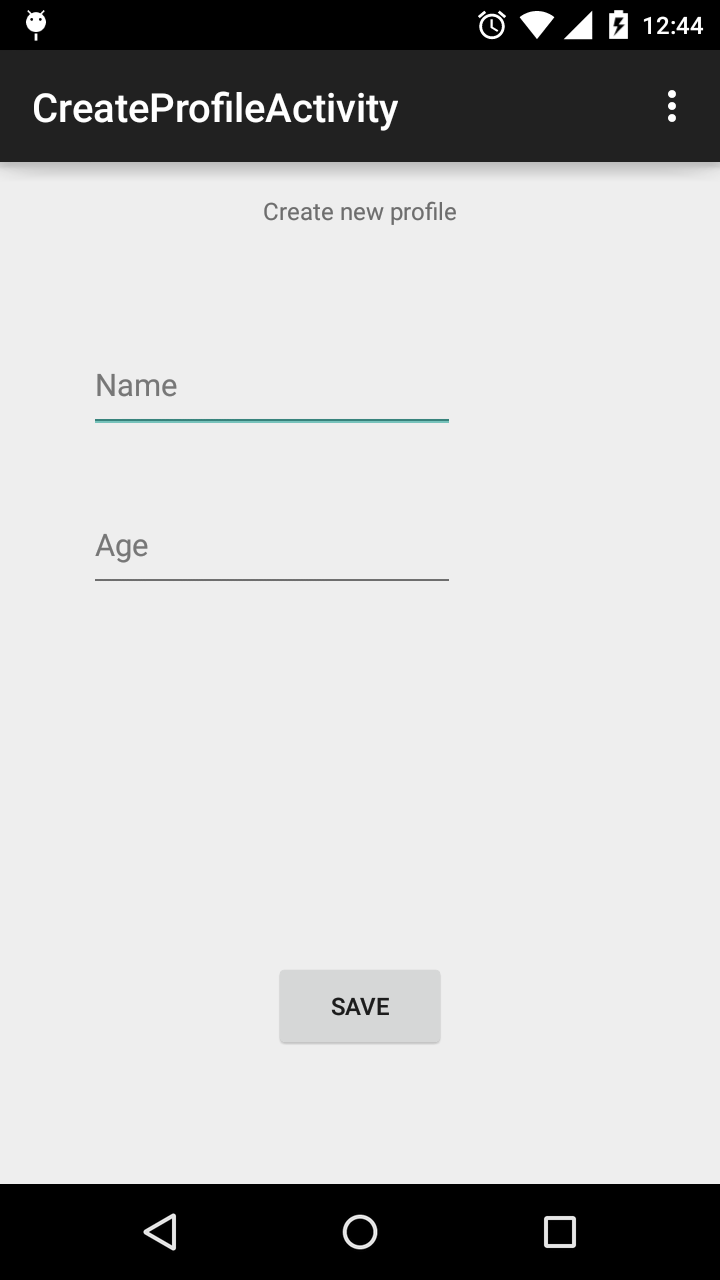
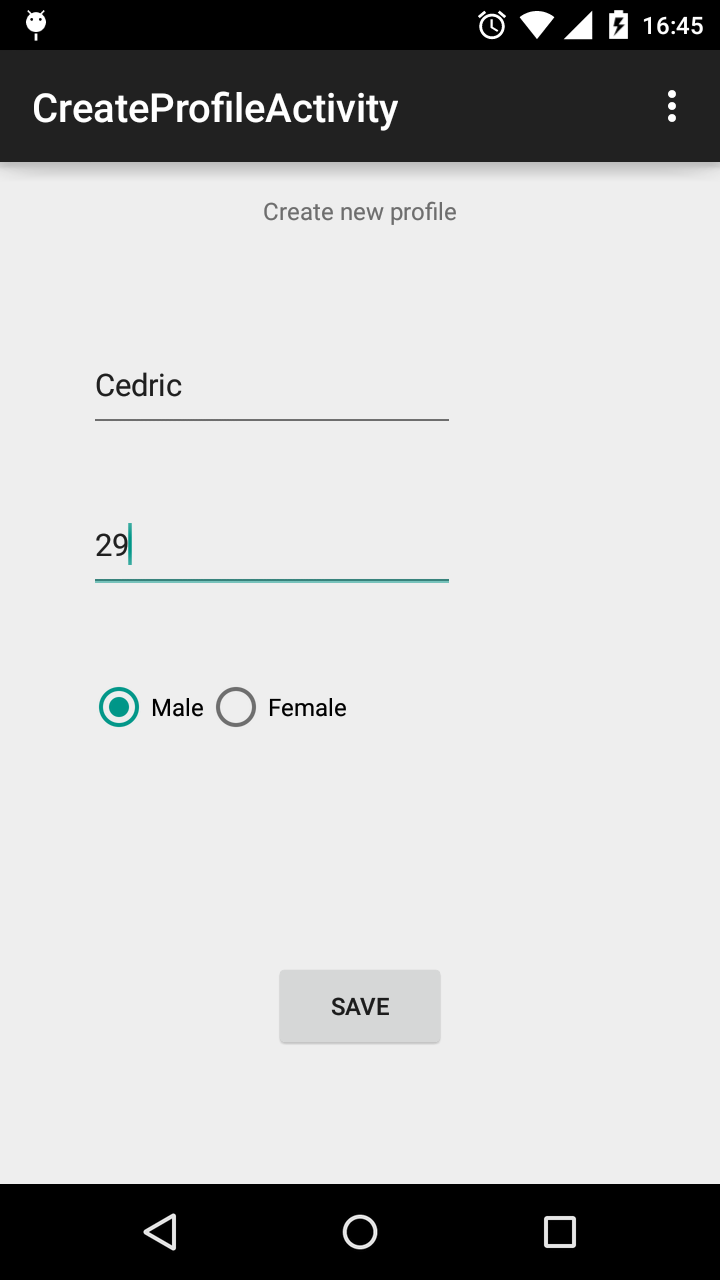
updated screenshots + readme

diff --git a/README.md b/README.md
@@ -1,18 +1,20 @@
-#This is my first Android APP on Android Studio, on Ubuntu.
+#MYFirstAndroidApp
 
-##The goals are :
+This is just an Android APP I develop, for fun.
+
+###The goals are :
 * create a very simple Android APP
 * use good concepts of programming (design patterns)
 * define an architecture to simplify interactions between activities, model, controllers
 * having fun with Github, Android Studion and Ubuntu
 
-##As of Today, the app allows you to manage profiles :
-* a profile is composed by a name and an age
+###As of Today, the app allows you to manage profiles :
+* a profile is composed by a name, age and gender
 * you can create a profile
 * you can list all profiles
 * more features coming soon.
 
-##Screenshots
+###Screenshots
 
 ###Main activity
 ![main_activity](https://raw.githubusercontent.com/drydry/myFirstAndroidApp/master/Screenshots/main-activity.png)
